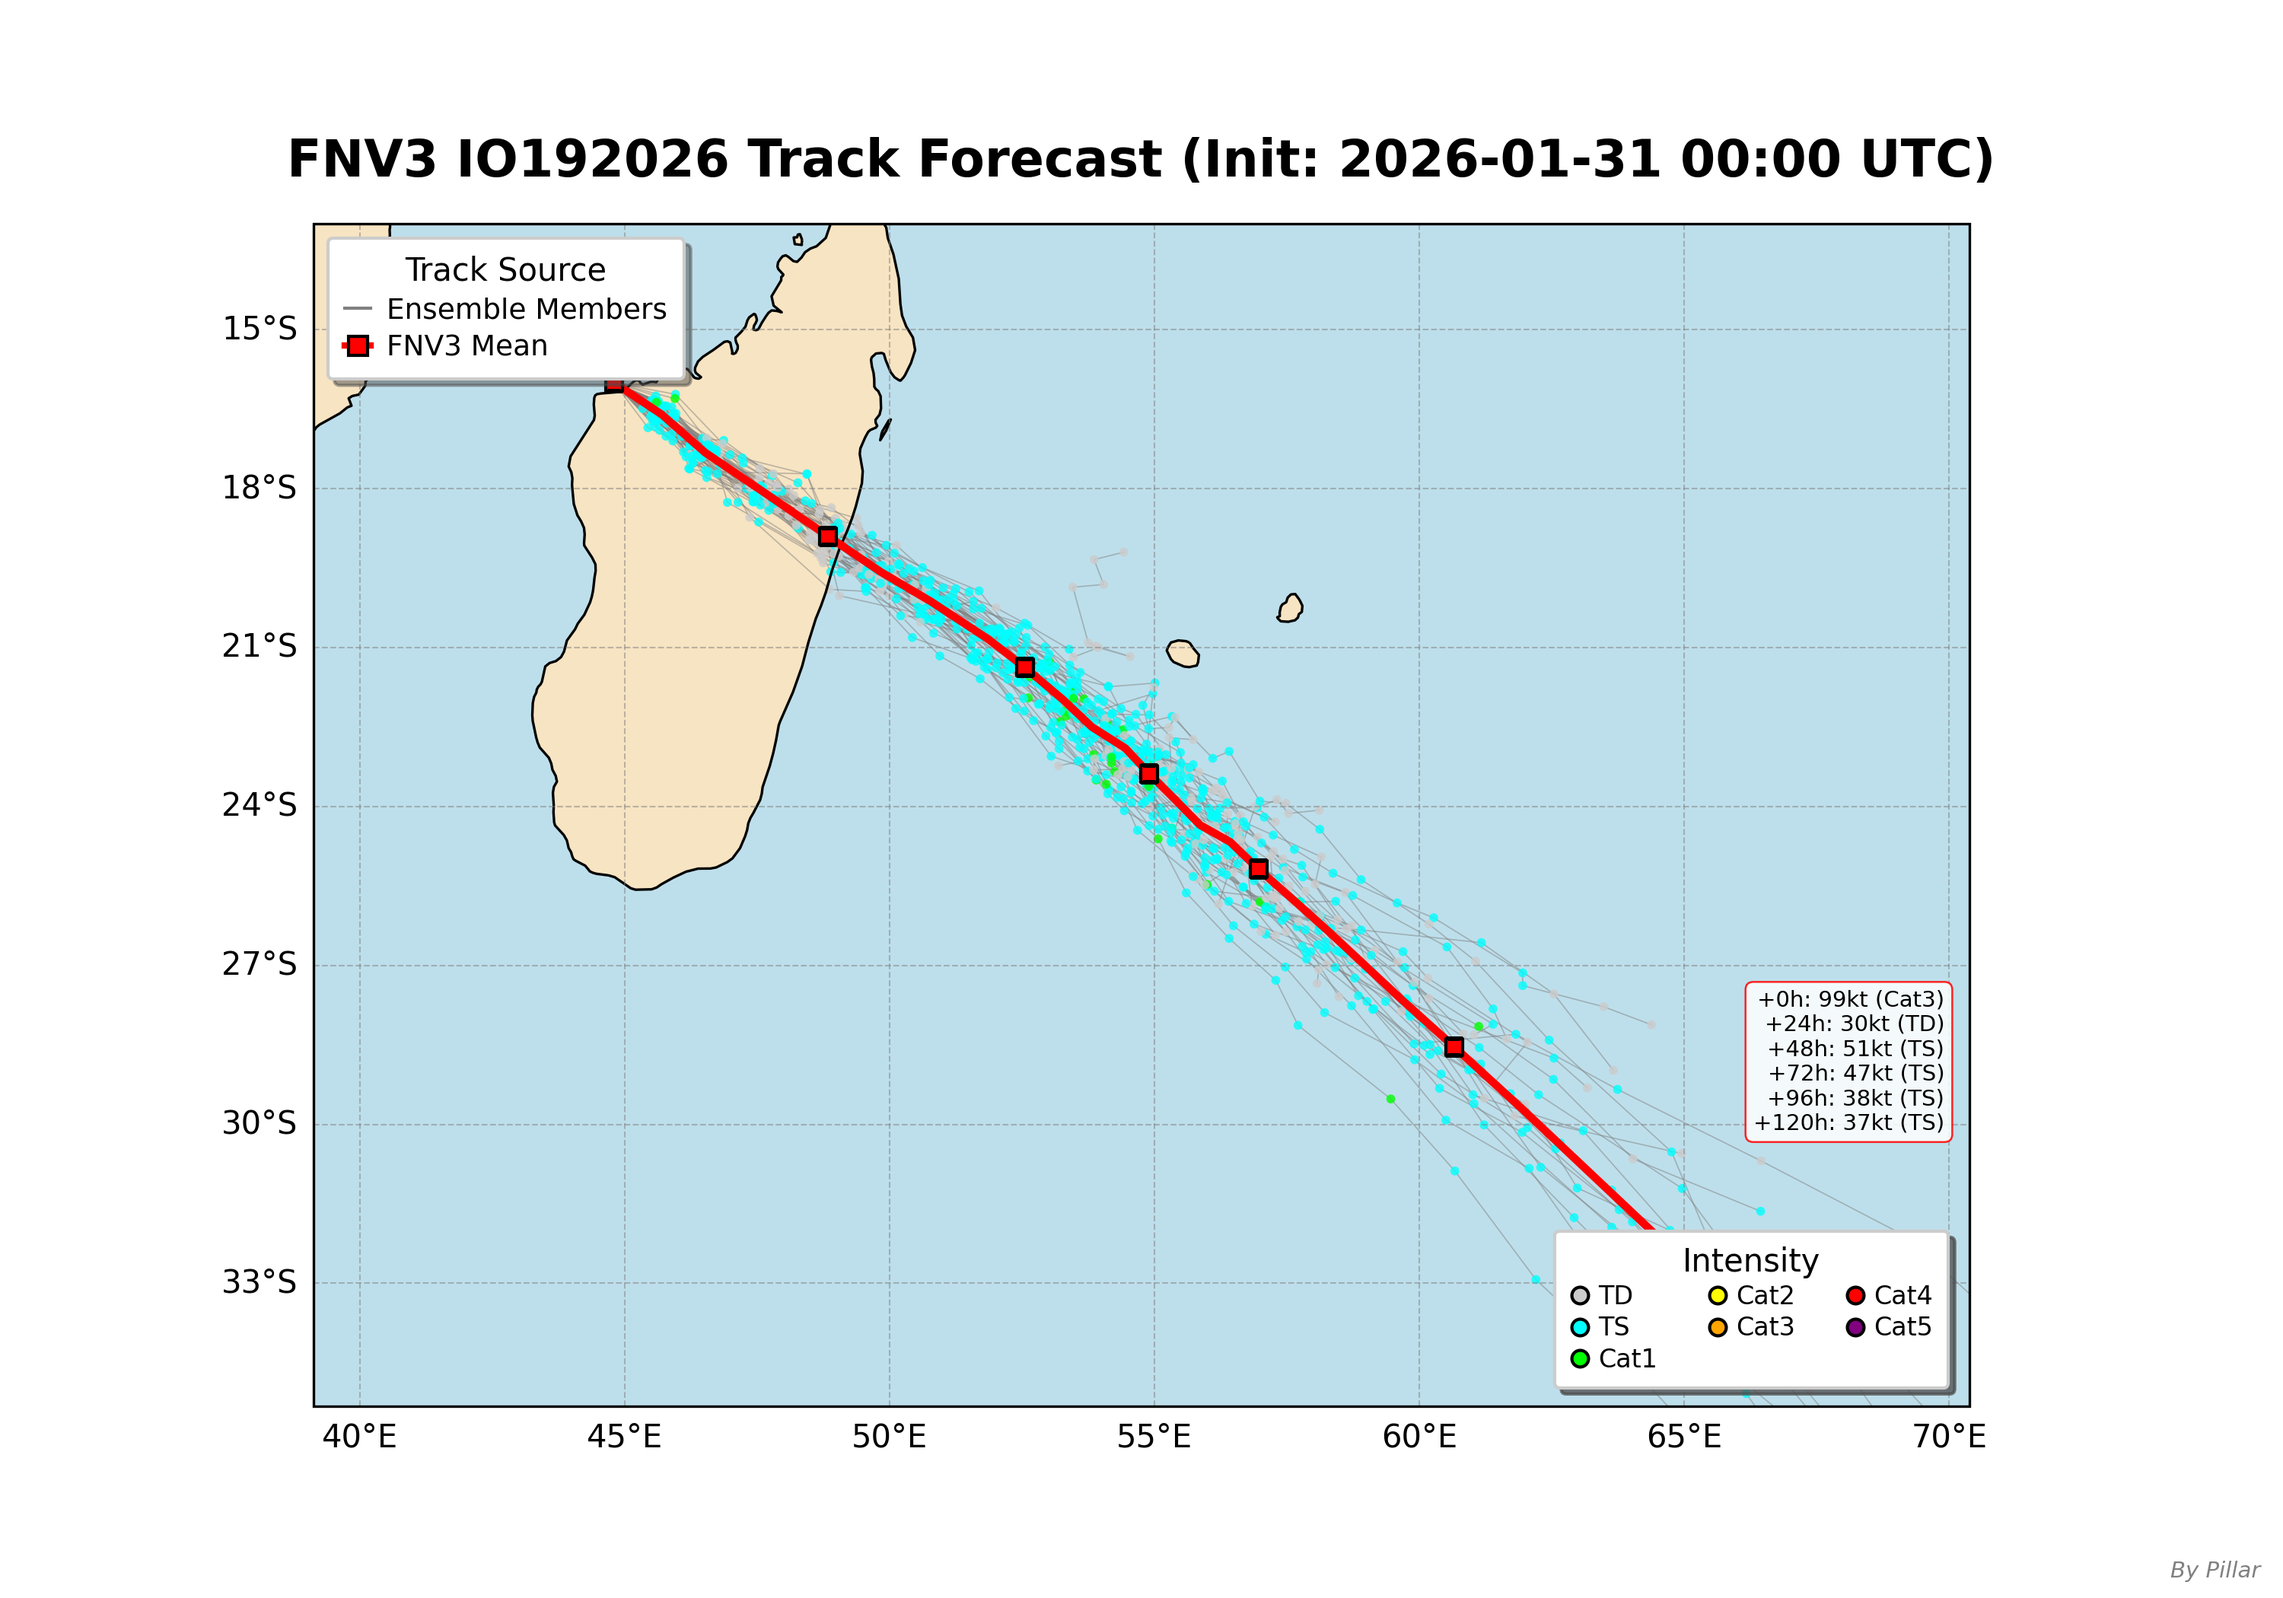
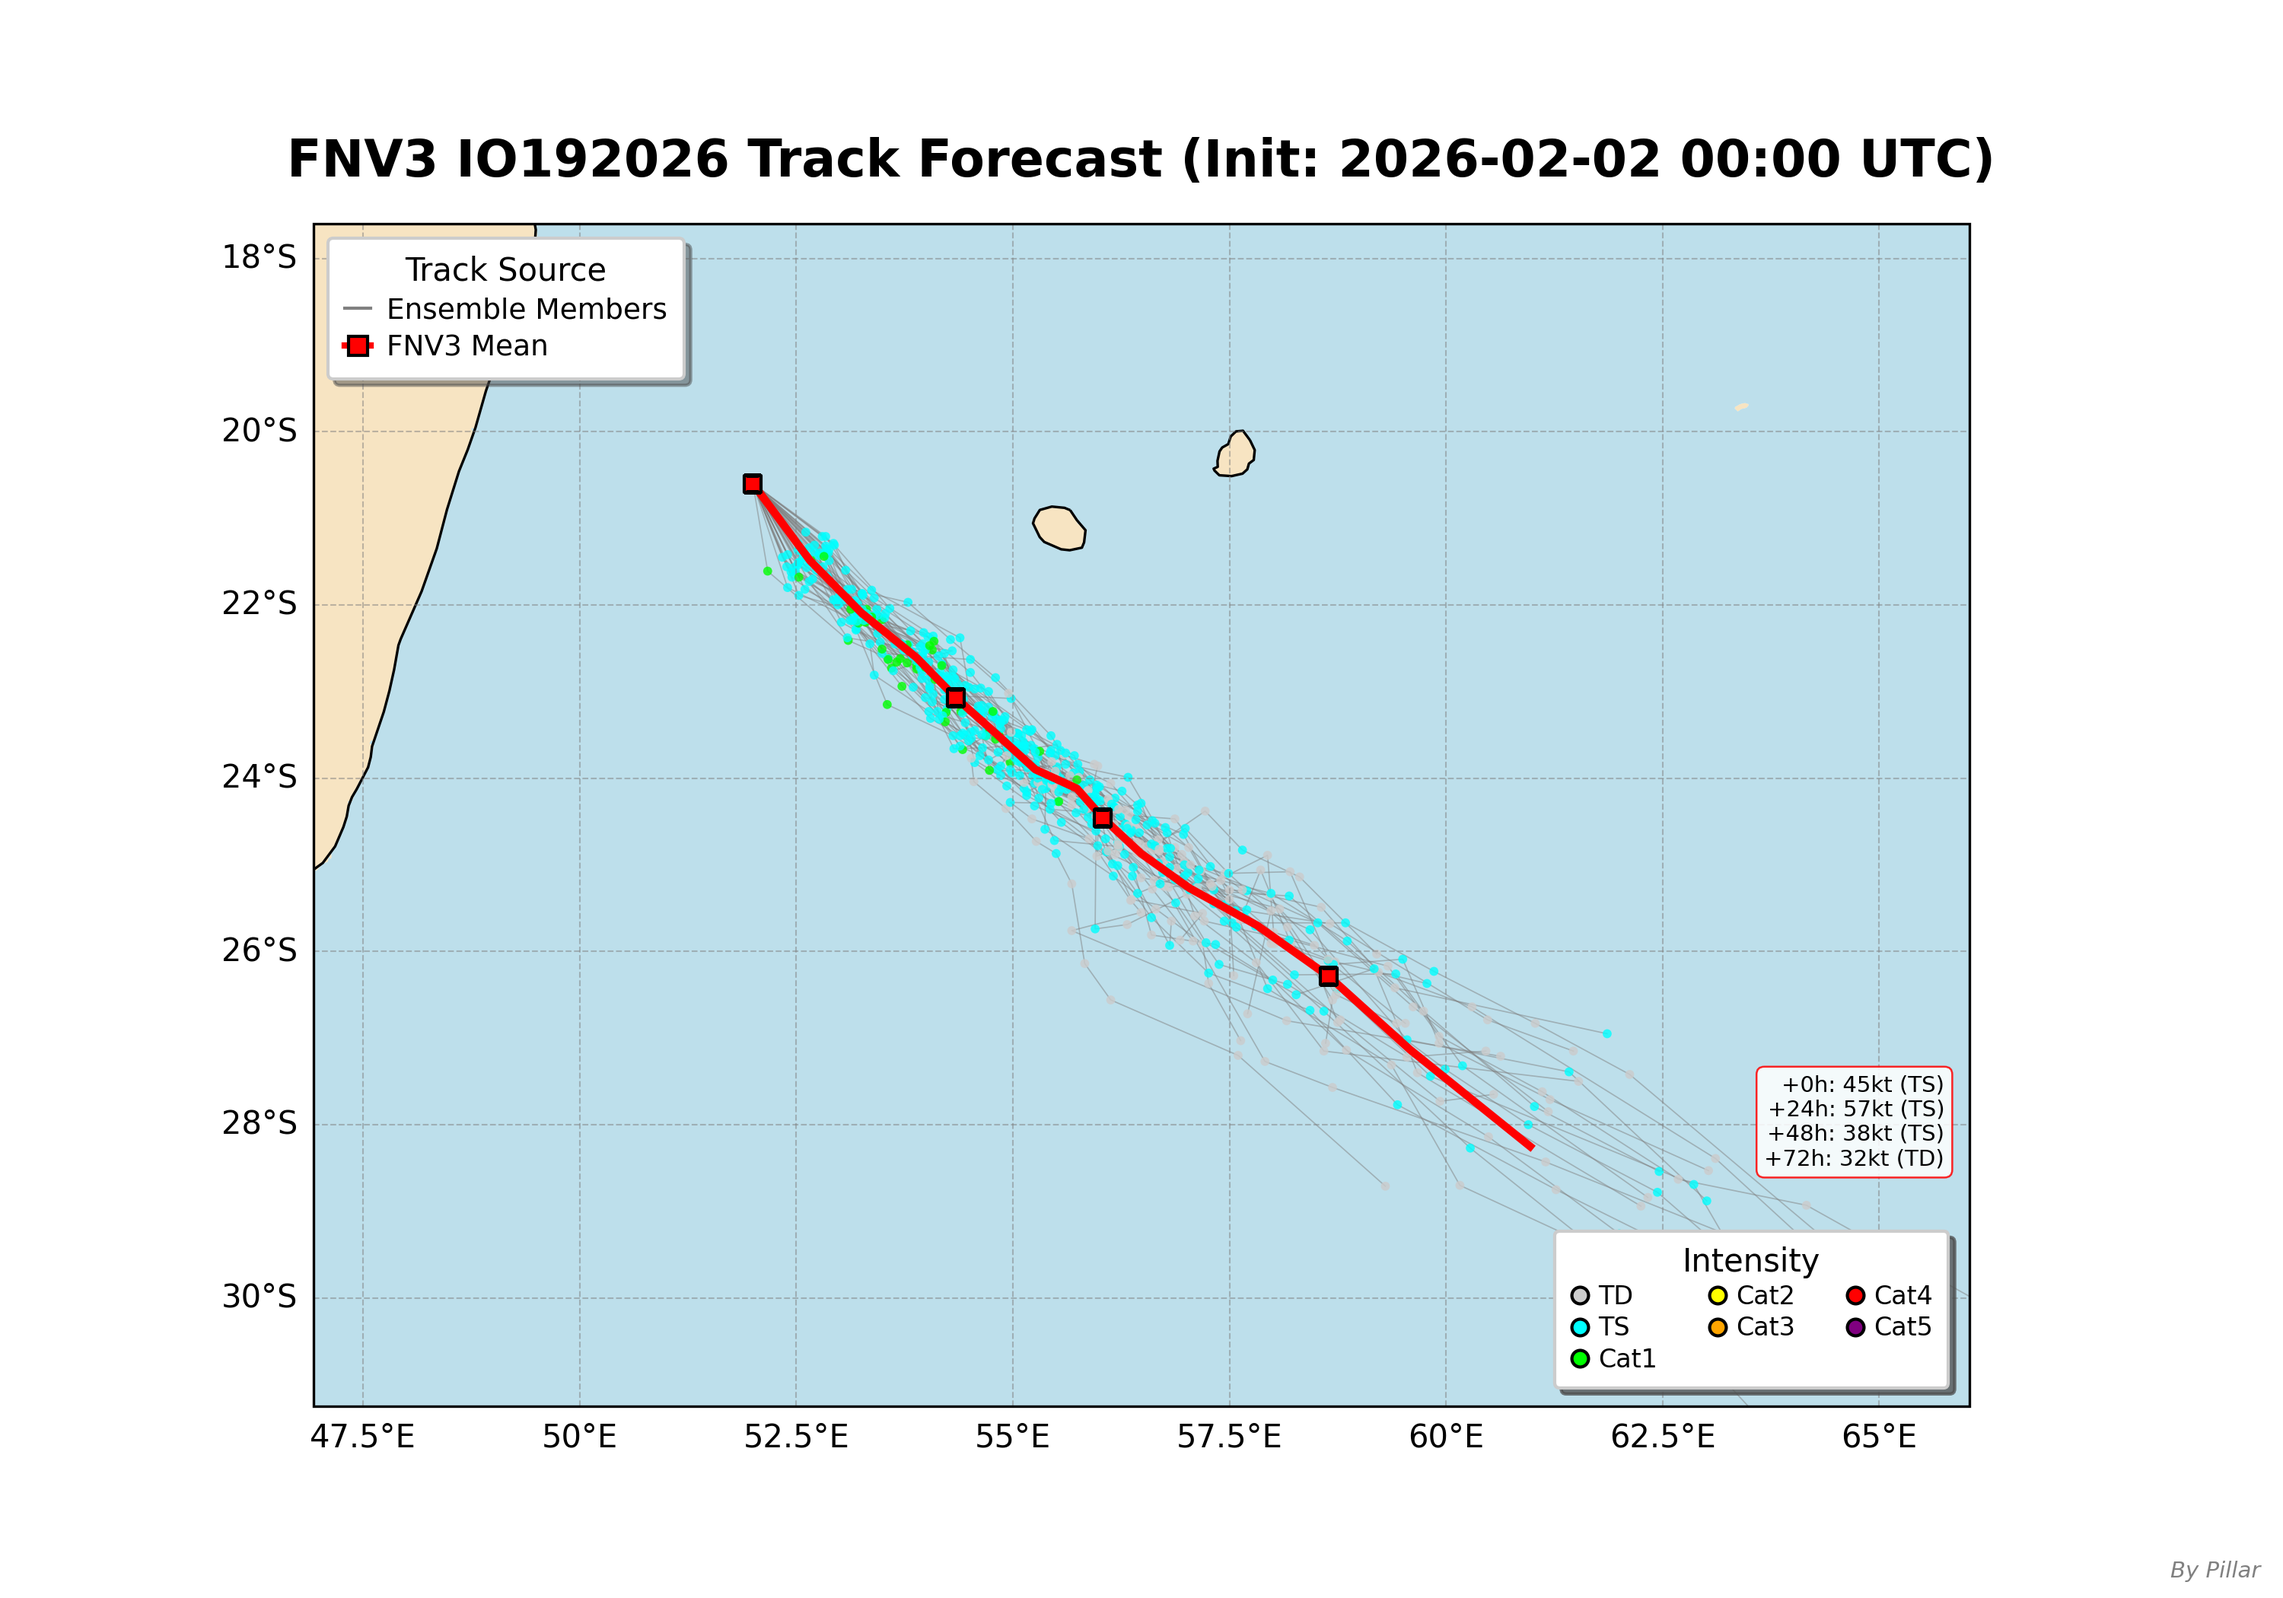
Add files via upload

diff --git a/index.html b/index.html
@@ -689,7 +689,7 @@
                     <div class="subtitle">Real-time FNV3 Ensemble Forecast System</div>
                 </div>
                 <div class="update-badge">
-                    ⏰ Updated: 2026-01-31 17:21:10
+                    ⏰ Updated: 2026-02-02 15:53:15
                 </div>
             </div>
         </header>
@@ -708,34 +708,30 @@
                 <div class="info-grid">
                     <div class="info-item">
                         <div class="info-label">🛰 Current Time</div>
-                        <div class="info-value">310000 Z</div>
+                        <div class="info-value">020000 Z</div>
                     </div>
                     <div class="info-item">
                         <div class="info-label">📍 Current Position</div>
-                        <div class="info-value">16.3°S, 45.2°E</div>
+                        <div class="info-value">20.8°S, 52.3°E</div>
                     </div>
                     <div class="info-item">
                         <div class="info-label">💨 Maximum Wind</div>
-                        <div class="info-value">100 kt</div>
+                        <div class="info-value">45 kt</div>
                     </div>
                     <div class="info-item">
                         <div class="info-label">🔥 Intensity (Saffir-Simpson)</div>
                         <div class="info-value intensity-value">
-                            <span class="intensity-dot" style="background: #FFA500;"></span>
-                            <span class="legend-label">Cat3</span>
+                            <span class="intensity-dot" style="background: #00FFFF;"></span>
+                            <span class="legend-label">TS</span>
                         </div>
                     </div>
                     <div class="info-item mobile-wind-radii" style="grid-column: span 2;">
                         <div class="info-label">🌀 34 kt Wind Radii</div>
-                        <div class="info-value">NE: 080 / SE: 070 / SW: 070 / NW: 080 nm</div>
+                        <div class="info-value">NE: 075 / SE: 080 / SW: 050 / NW: 060 nm</div>
                     </div>
                     <div class="info-item mobile-wind-radii" style="grid-column: span 2;">
                         <div class="info-label">🌀 50 kt Wind Radii</div>
-                        <div class="info-value">NE: 030 / SE: 030 / SW: 030 / NW: 030 nm</div>
-                    </div>
-                    <div class="info-item mobile-wind-radii" style="grid-column: span 2;">
-                        <div class="info-label">🌀 64 kt Wind Radii</div>
-                        <div class="info-value">NE: 020 / SE: 020 / SW: 020 / NW: 020 nm</div>
+                        <div class="info-value">NE: 010 / SE: 020 / SW: 010 / NW: 020 nm</div>
                     </div>
                 </div>
 
@@ -790,9 +786,9 @@
                         <button class="control-btn" onclick="pauseAnimation('IO192026')">⏸ Pause</button>
                         <button class="control-btn" onclick="resetAnimation('IO192026')">⟲ Reset</button>
                         <div class="progress-bar-container">
-                            <input type="range" id="progress-IO192026" class="progress-slider" min="0" max="26" value="0" 
+                            <input type="range" id="progress-IO192026" class="progress-slider" min="0" max="17" value="0" 
                                    oninput="seekFrame('IO192026', this.value)">
-                            <span id="frame-counter-IO192026" class="frame-counter">1/27</span>
+                            <span id="frame-counter-IO192026" class="frame-counter">1/18</span>
                         </div>
                     </div>
                 </div>
